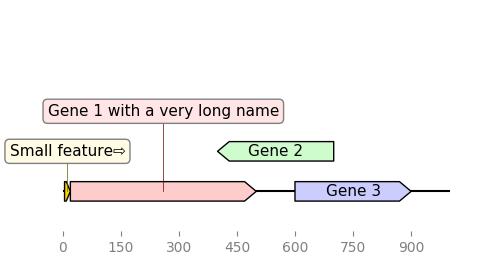
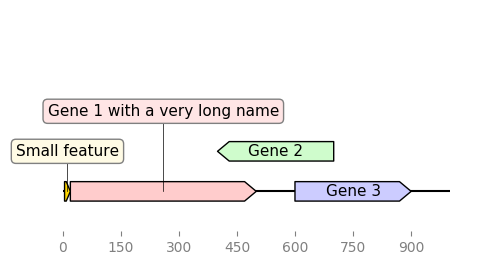
chenged the "strand_in_label" behaviour. Now default is none

Changed region(s): [[0.0, 0.5231, 0.27, 0.6462]]

diff --git a/dna_features_viewer/GraphicRecord/MatplotlibPlottableMixin.py b/dna_features_viewer/GraphicRecord/MatplotlibPlottableMixin.py
@@ -13,52 +13,11 @@ from ..GraphicFeature import GraphicFeature
 from matplotlib.colors import colorConverter
 
 
-def change_luminosity(color, luminosity=None, factor=None):
-    """Return a version of the color with different luminosity.
-
-    Parameters
-    ----------
-    color
-      A color in any Matplotlib-compatible format such as "white", "w",
-      (1,1,1), "#ffffff", etc.
-    luminosity
-      A float in 0-1. If provided, the returned color has this level of
-      luminosity.
-    factor
-      Only used if `luminosity` is not set. Positive factors increase
-      luminosity and negative factors decrease it. More precisely, the
-      luminosity of the new color is L^(-factor), where L is the current
-      luminosity, between 0 and 1. 
-    """
-    r, g, b = colorConverter.to_rgb(color)
-    h, l, s = colorsys.rgb_to_hls(r, g, b)
-    if luminosity is not None:
-        new_l = luminosity
-    else:
-        new_l = l ** (-factor)
-    return colorsys.hls_to_rgb(h, new_l, s)
-
-
-def get_text_box(text, margin=0):
-    """Return the coordinates of a Matplotlib Text.
-
-    `text` is a Matplotlib text obtained with ax.text().
-    This returns `(x1,y1, x2, y2)` where (x1,y1) is the lower left corner
-    and (x2, y2) is the upper right corner of the text, in data coordinates.
-    If a margin m is supplied, the returned result is (x1-m, y1-m, x2+m, y2+m)
-    """
-    renderer = text.axes.figure.canvas.get_renderer()
-    bbox = text.get_window_extent(renderer)  # bounding box
-    __x1, y1, __x2, y2 = bbox.get_points().flatten()
-    bbox = bbox.transformed(text.axes.transData.inverted())
-    x1, _, x2, _ = bbox.get_points().flatten()
-    return [x1, y1, x2, y2]
-
-
 class MatplotlibPlottableMixin:
     """Class mixin for matplotlib-related methods."""
 
     default_elevate_outline_annotations = False
+    default_strand_in_label_threshold = None
 
     def initialize_ax(self, ax, draw_line, with_ruler, ruler_color=None):
         """Initialize the ax: remove axis, draw a horizontal line, etc.
@@ -371,6 +330,7 @@ class MatplotlibPlottableMixin:
         max_label_length=50,
         max_line_length=30,
         level_offset=0,
+        strand_in_label_threshold='default',
         elevate_outline_annotations="default",
         x_lim=None,
         figure_height=None,
@@ -409,7 +369,13 @@ class MatplotlibPlottableMixin:
           same ax.
         
         elevate_outline_annotations
-          If true, every 
+          If true, every text annotation will be above every feature. If false,
+          text annotations will be as close as possible to the features.
+        
+        strand_in_label_pixel_threshold
+          Number N such that, when provided, every feature with a graphical
+          width in pixels below N will have its strand indicated in the label
+          by an a left/right arrow
 
         x_lim
           Horizontal axis limits to be set at the end.
@@ -418,6 +384,9 @@ class MatplotlibPlottableMixin:
         if elevate_outline_annotations == "default":
             default = self.default_elevate_outline_annotations
             elevate_outline_annotations = default
+        if strand_in_label_threshold == "default":
+            default = self.default_strand_in_label_threshold
+            strand_in_label_threshold = default
 
         features_levels = compute_features_levels(self.features)
 
@@ -435,10 +404,11 @@ class MatplotlibPlottableMixin:
 
         def strand_in_label(f):
             """Anything under 0.1 inches in the figure"""
+            if strand_in_label_threshold is None:
+                return False
             width_pixel = self._get_ax_width(ax, unit="pixel")
-            min_pixels = 7  # Hey look, a magic number!
             f_pixels = 1.0 * width_pixel * f.length / self.sequence_length
-            return f_pixels < min_pixels
+            return f_pixels < strand_in_label_threshold
 
         self.initialize_ax(ax, draw_line=draw_line, with_ruler=with_ruler)
         if x_lim is not None:
@@ -695,3 +665,45 @@ class MatplotlibPlottableMixin:
                     zorder=-1000,
                     facecolor=background[i % 2],
                 )
+
+
+def change_luminosity(color, luminosity=None, factor=None):
+    """Return a version of the color with different luminosity.
+
+    Parameters
+    ----------
+    color
+      A color in any Matplotlib-compatible format such as "white", "w",
+      (1,1,1), "#ffffff", etc.
+    luminosity
+      A float in 0-1. If provided, the returned color has this level of
+      luminosity.
+    factor
+      Only used if `luminosity` is not set. Positive factors increase
+      luminosity and negative factors decrease it. More precisely, the
+      luminosity of the new color is L^(-factor), where L is the current
+      luminosity, between 0 and 1. 
+    """
+    r, g, b = colorConverter.to_rgb(color)
+    h, l, s = colorsys.rgb_to_hls(r, g, b)
+    if luminosity is not None:
+        new_l = luminosity
+    else:
+        new_l = l ** (-factor)
+    return colorsys.hls_to_rgb(h, new_l, s)
+
+
+def get_text_box(text, margin=0):
+    """Return the coordinates of a Matplotlib Text.
+
+    `text` is a Matplotlib text obtained with ax.text().
+    This returns `(x1,y1, x2, y2)` where (x1,y1) is the lower left corner
+    and (x2, y2) is the upper right corner of the text, in data coordinates.
+    If a margin m is supplied, the returned result is (x1-m, y1-m, x2+m, y2+m)
+    """
+    renderer = text.axes.figure.canvas.get_renderer()
+    bbox = text.get_window_extent(renderer)  # bounding box
+    __x1, y1, __x2, y2 = bbox.get_points().flatten()
+    bbox = bbox.transformed(text.axes.transData.inverted())
+    x1, _, x2, _ = bbox.get_points().flatten()
+    return [x1, y1, x2, y2]
